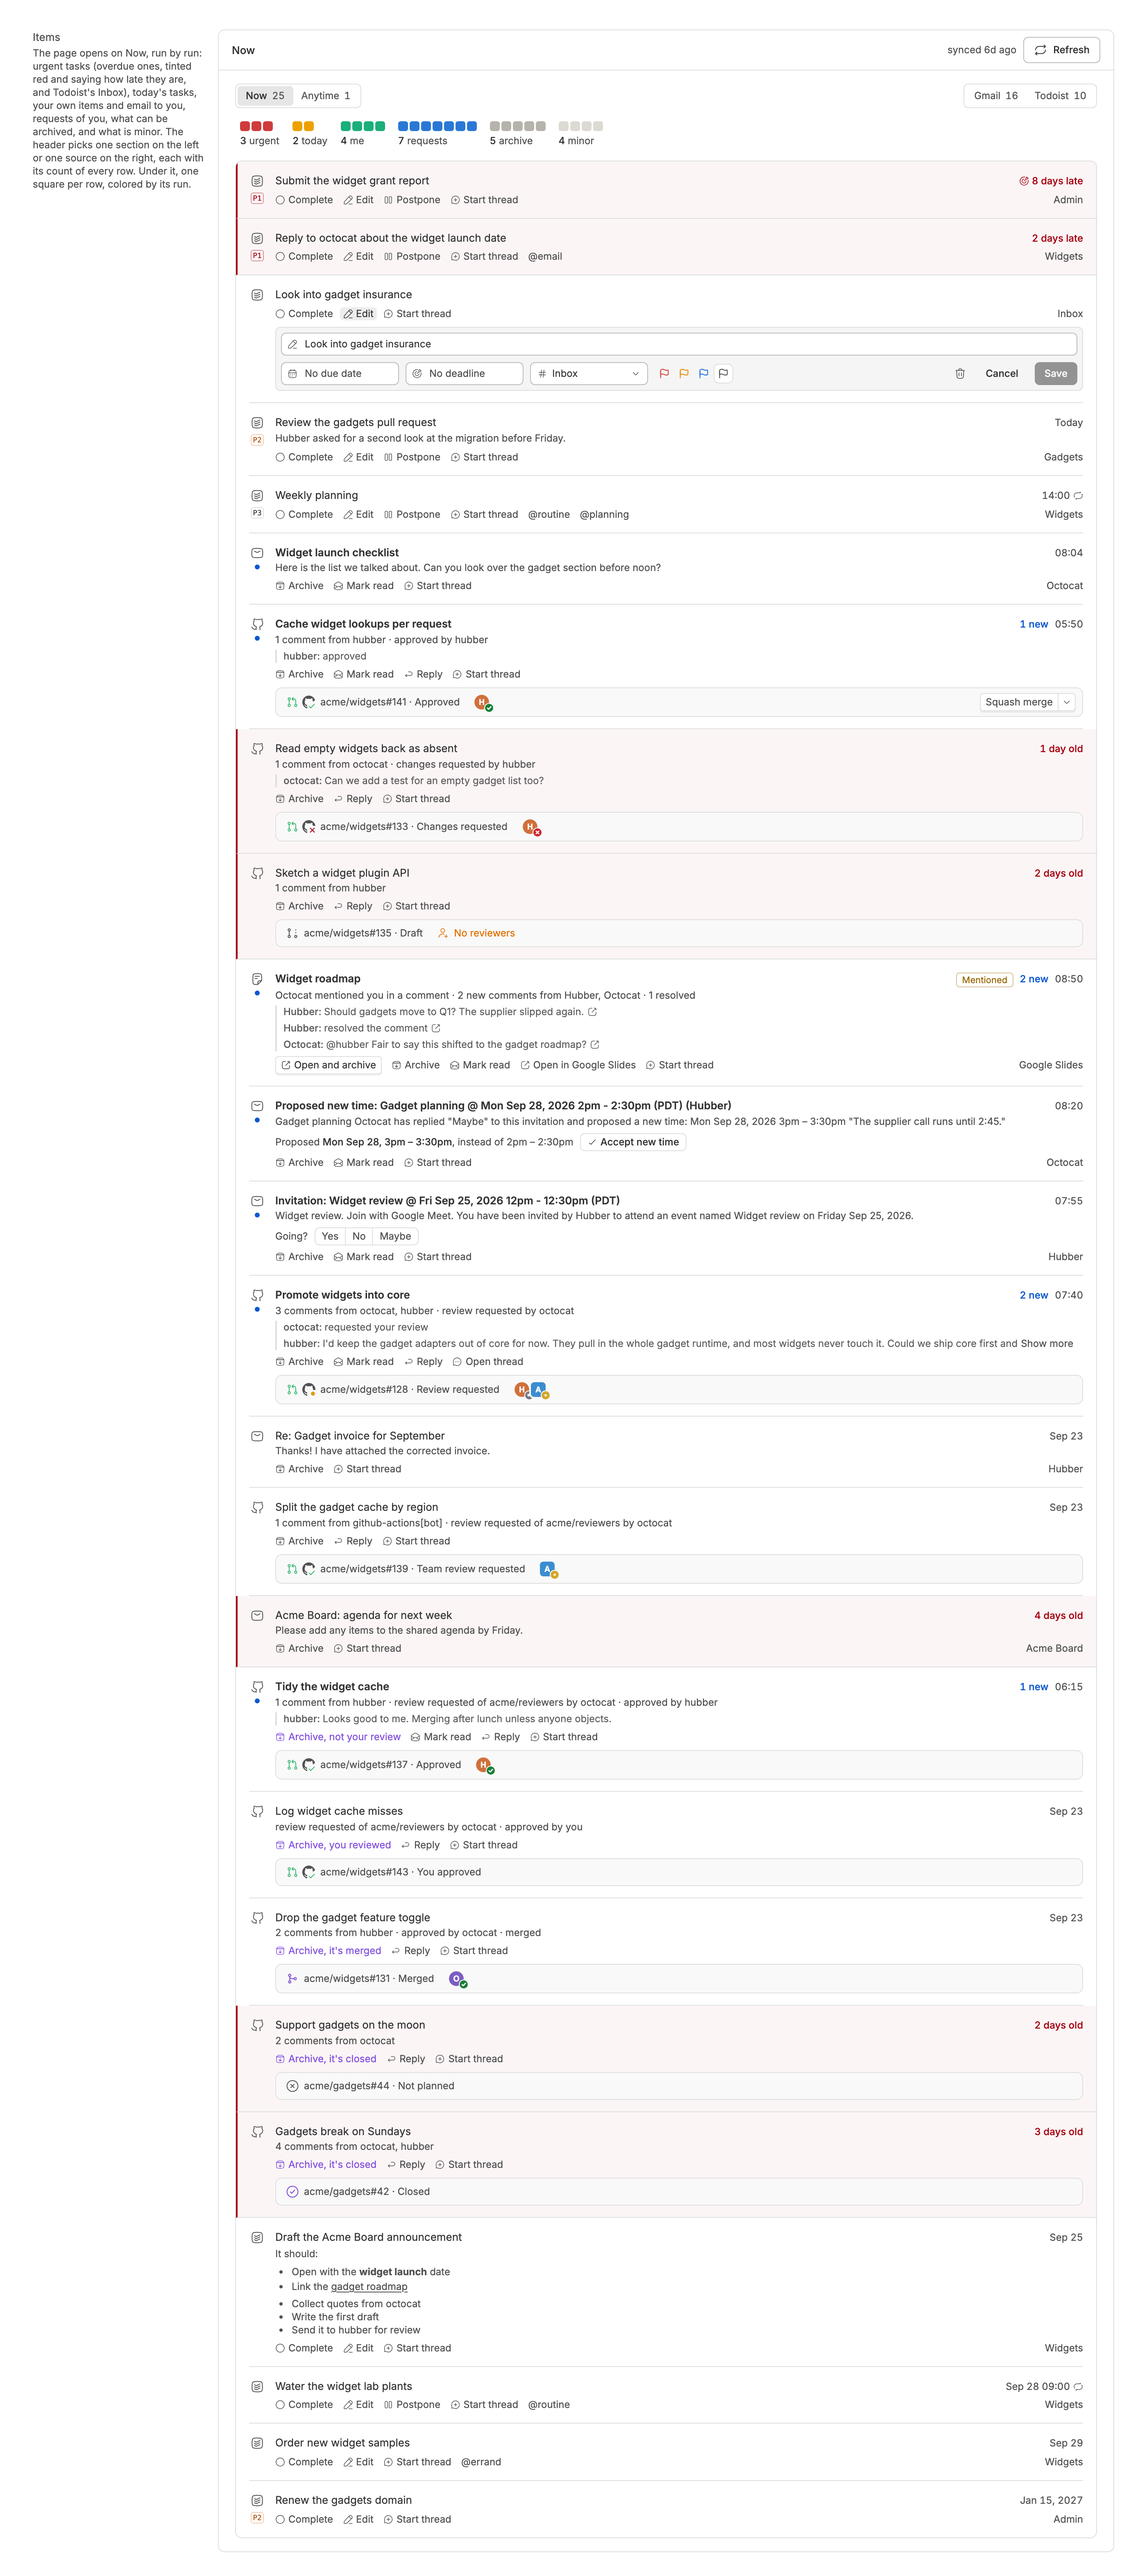
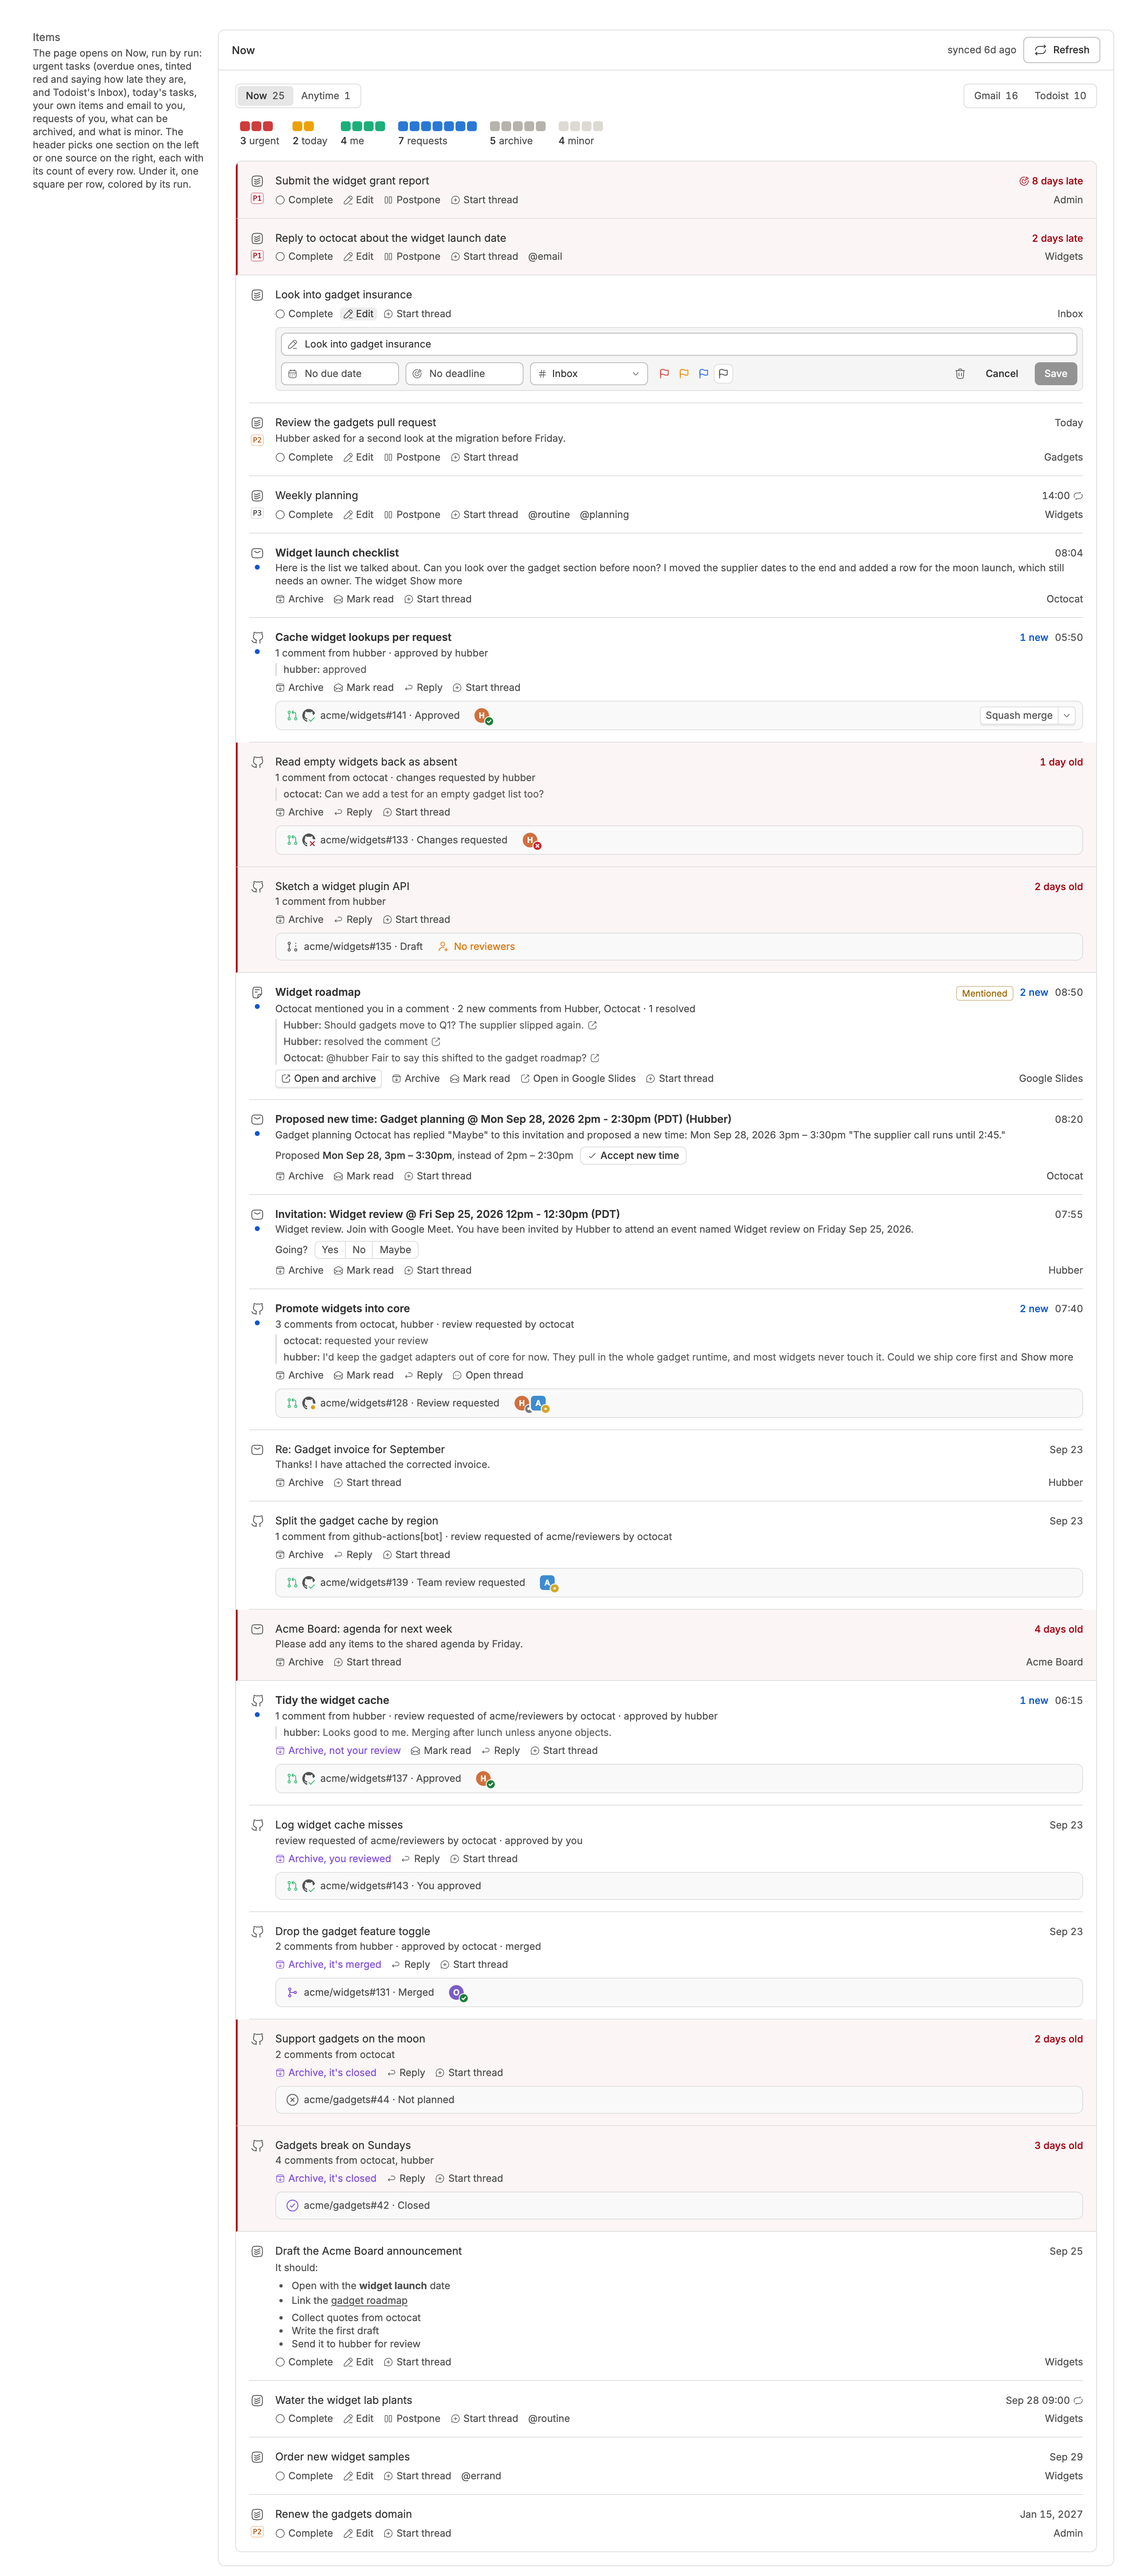
d6a8518 Give every cut-off row text in Now an inline Show more, emails included
danielbachhuber/bb-plugins@d6a851834dfbed507c78655fd564a008fff89211

Captured with uncommitted changes in the bb-plugins checkout.

diff --git a/now/README.md b/now/README.md
@@ -2,7 +2,7 @@
 
 # Now
 
-One list of what needs doing now, from Todoist and your Gmail inbox, with GitHub notifications gathered per pull request or issue, showing each pull request's reviewers, and Google Docs comments per document. Overdue tasks, and mail left in the inbox more than a day, are tinted red and say how late they are. A square per row above the list shows how Now splits into urgent (overdue tasks and Todoist's Inbox), today, your own items and email to you, requests of you, what can be archived, and what is minor, and pressing a run shows only its rows. Todoist descriptions render as Markdown, with open subtasks listed beneath. Complete, rename, reschedule, postpone, reprioritize, move, or delete tasks, read an email in full beside the list, open a GitHub comment the snippet cut short in full, archive email or mark it read, answer calendar invitations, accept a new time a guest proposes for your event, reply on GitHub, merge your own pull requests, and start a thread from any row.
+One list of what needs doing now, from Todoist and your Gmail inbox, with GitHub notifications gathered per pull request or issue, showing each pull request's reviewers, and Google Docs comments per document. Overdue tasks, and mail left in the inbox more than a day, are tinted red and say how late they are. A square per row above the list shows how Now splits into urgent (overdue tasks and Todoist's Inbox), today, your own items and email to you, requests of you, what can be archived, and what is minor, and pressing a run shows only its rows. Todoist descriptions render as Markdown, with open subtasks listed beneath. Complete, rename, reschedule, postpone, reprioritize, move, or delete tasks, read an email in full beside the list, open an email or GitHub comment the snippet cut short in full, archive email or mark it read, answer calendar invitations, accept a new time a guest proposes for your event, reply on GitHub, merge your own pull requests, and start a thread from any row.
 
 Source: [`bb-plugin-now`](https://github.com/danielbachhuber/bb-plugins/tree/main/bb-plugin-now)
 
